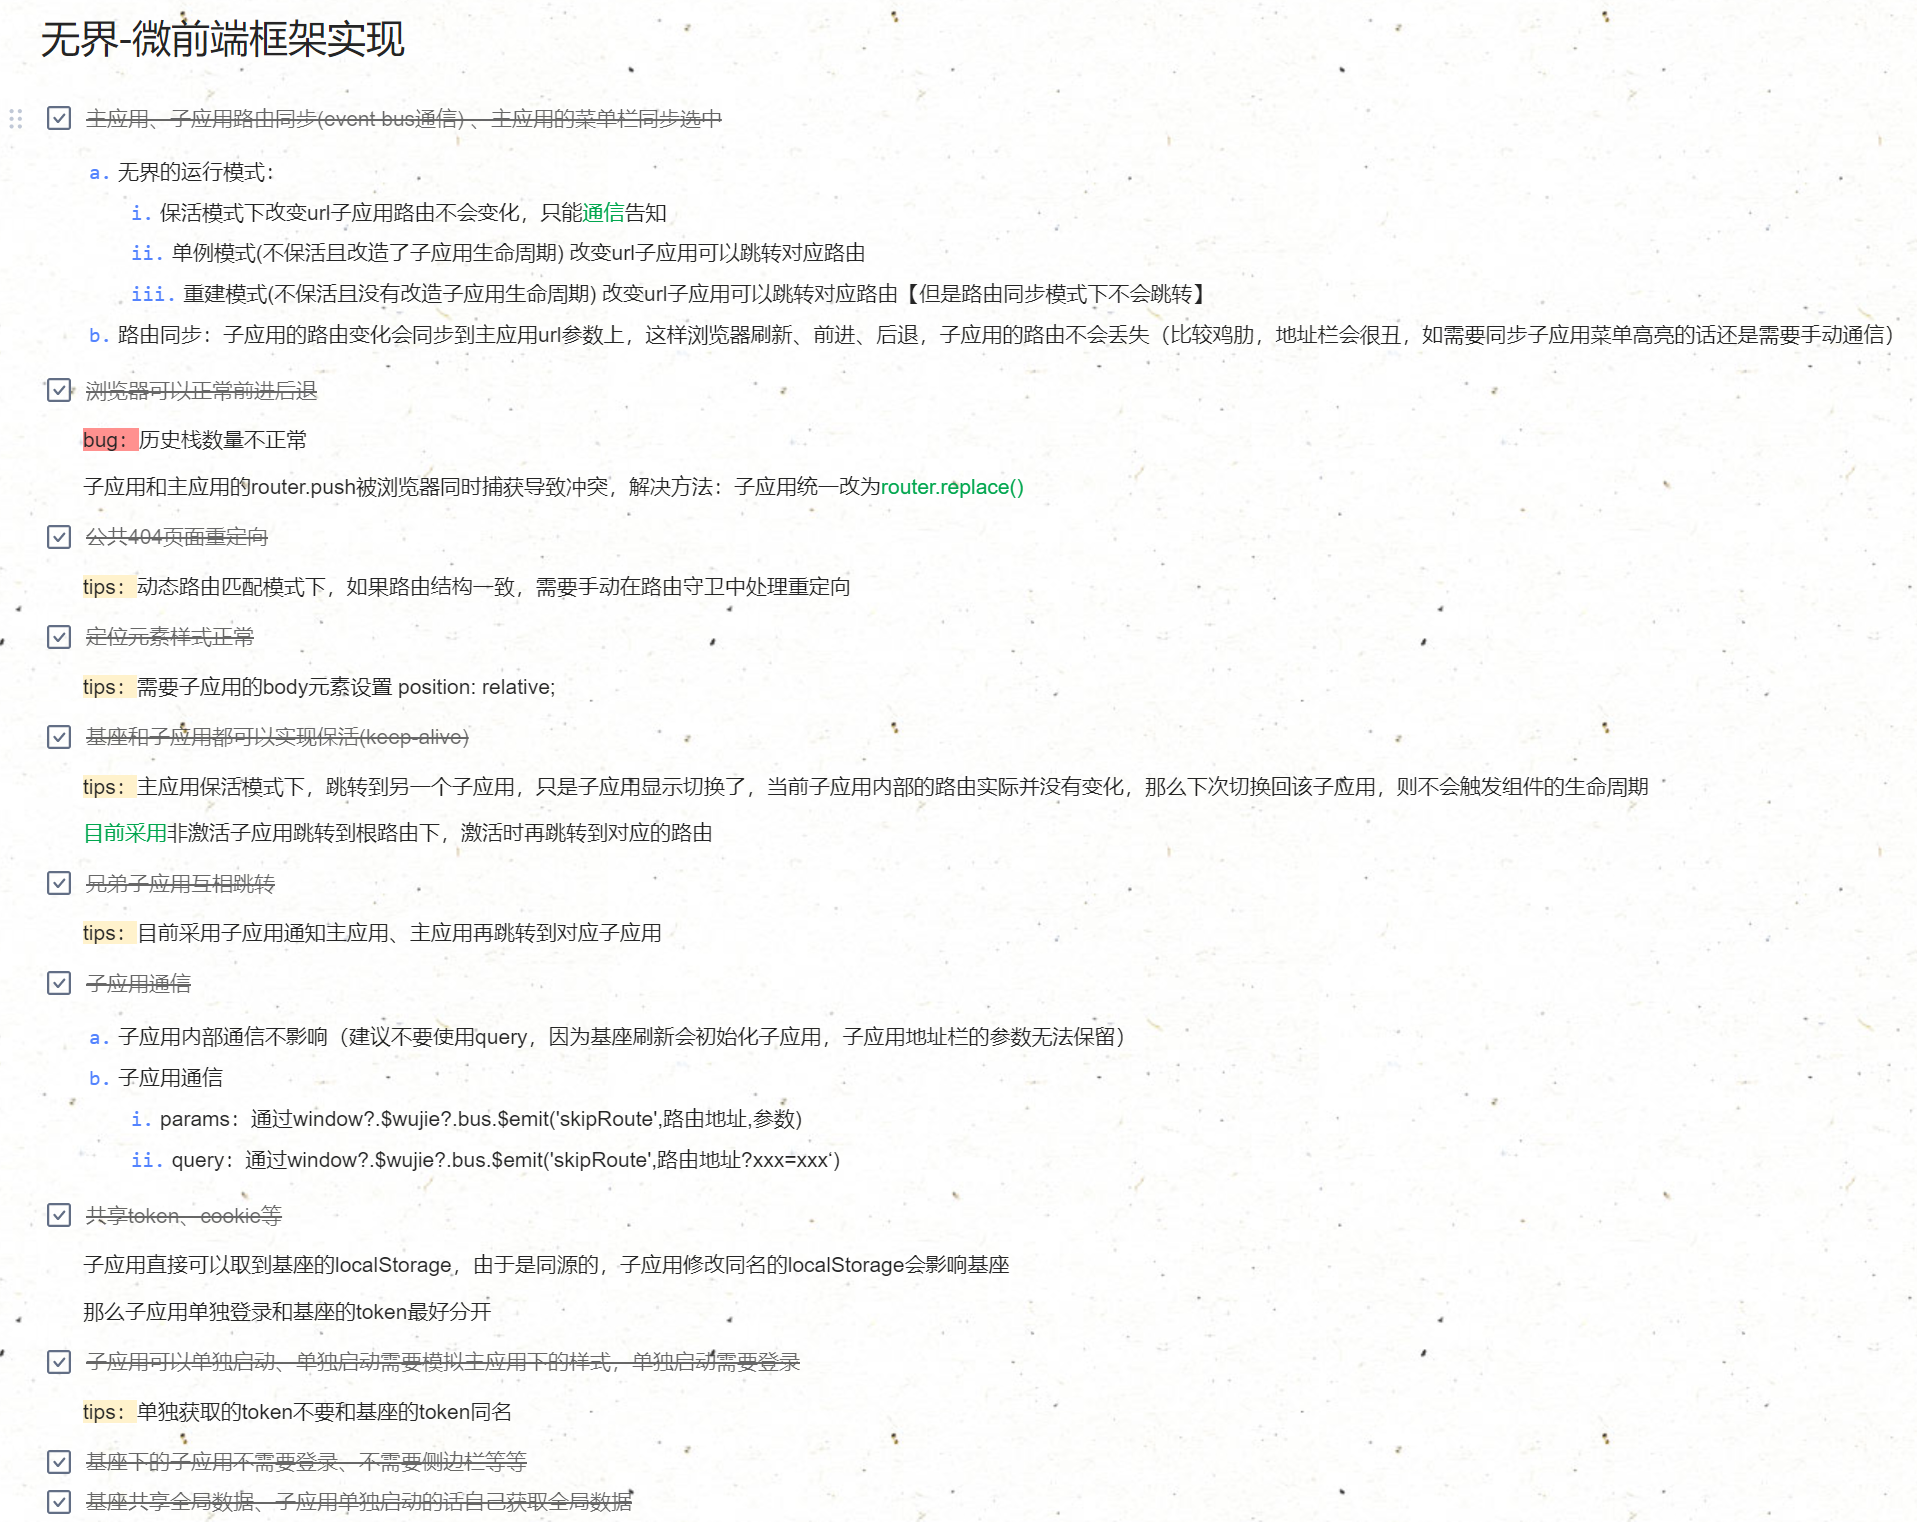
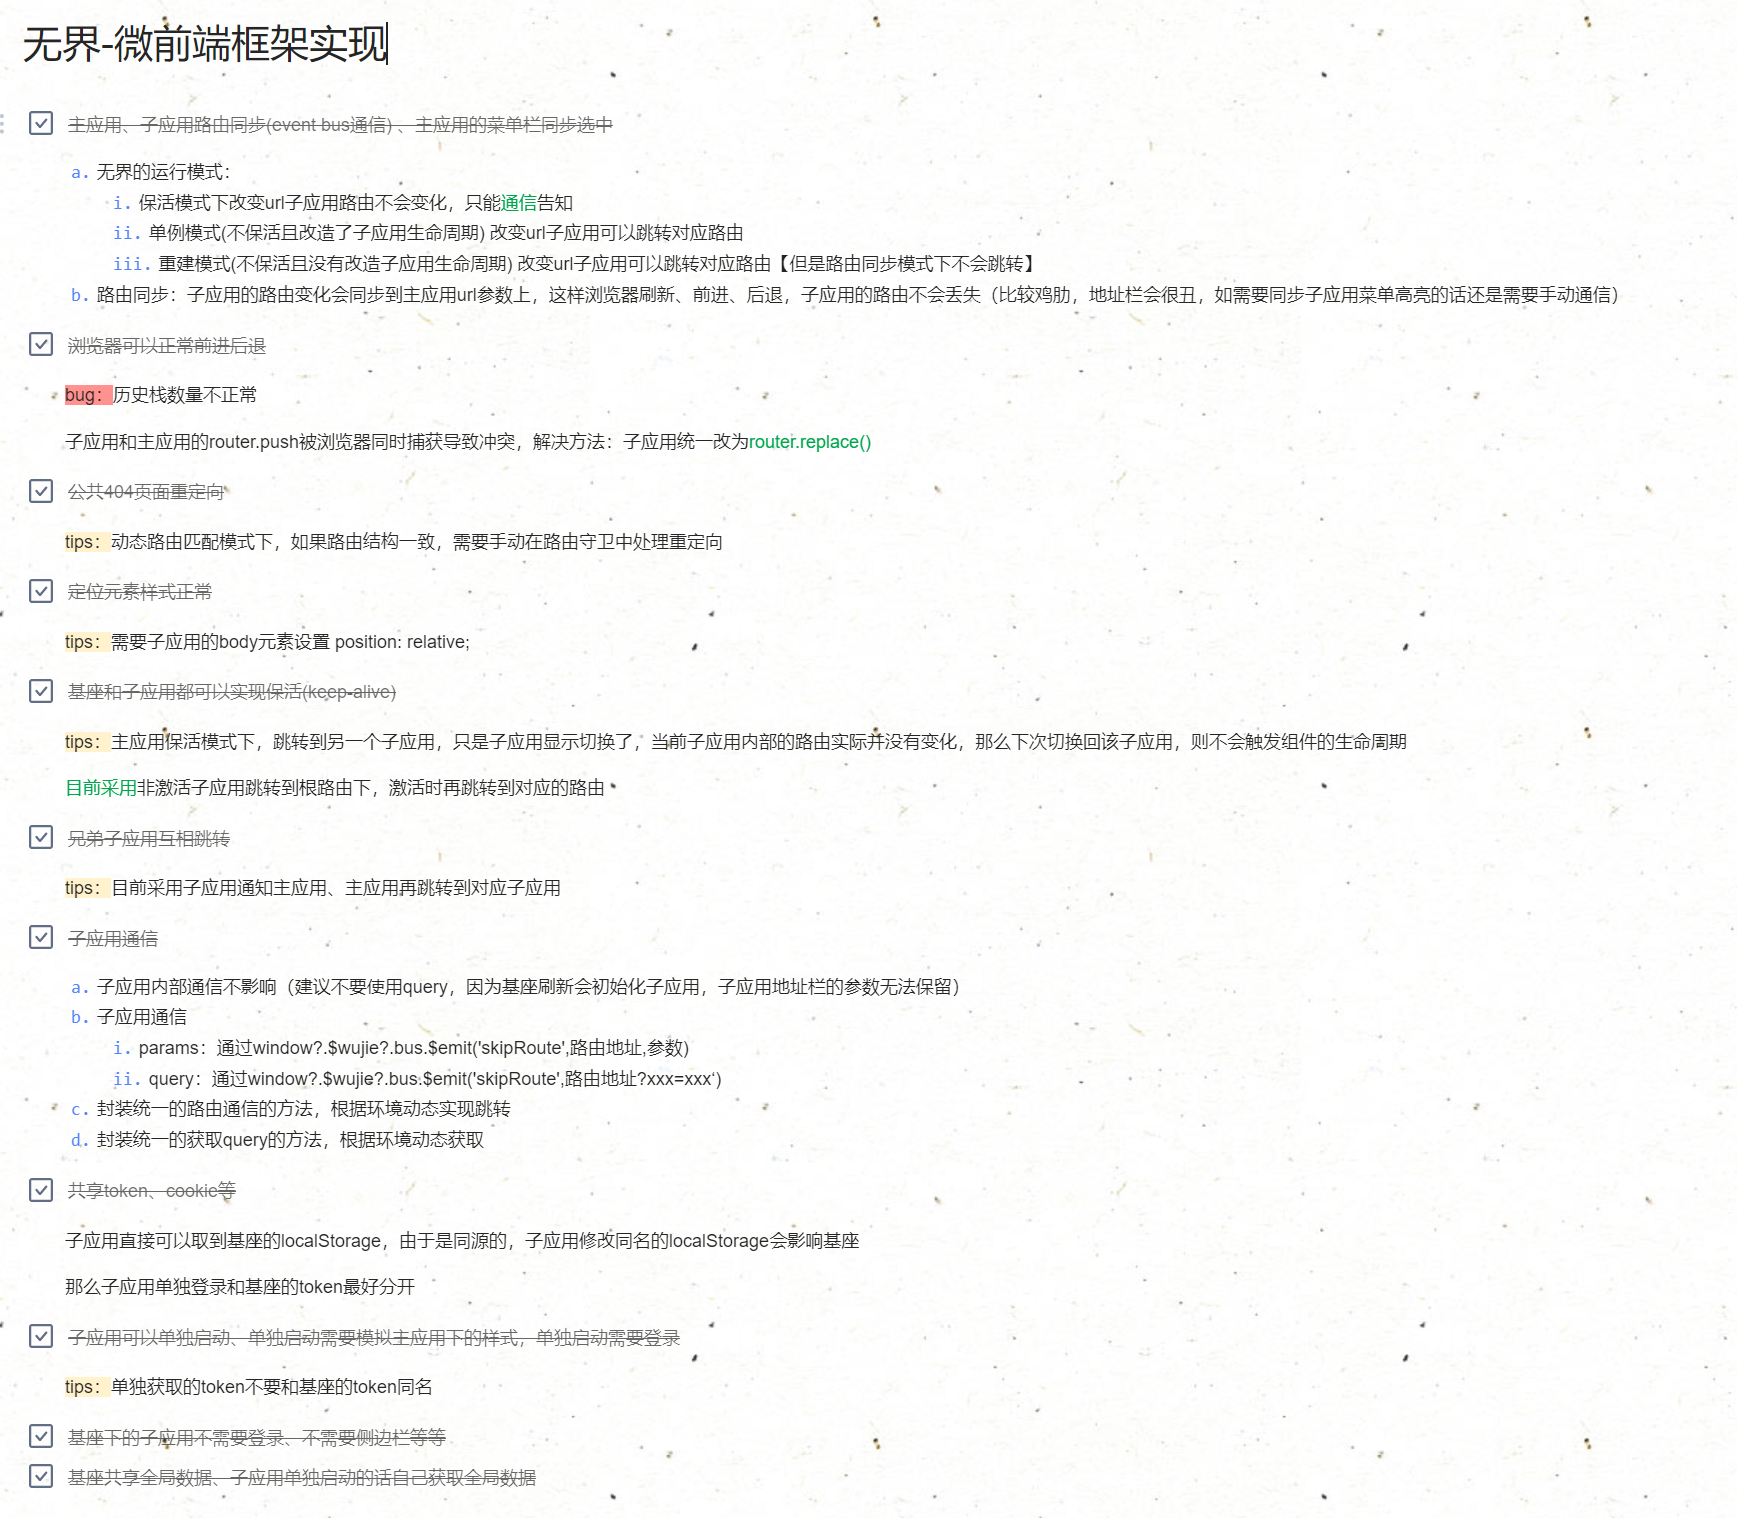
feat: 优化
1、主应用不再直接监听子路由变化，子路由变化路由通过公共方法区分环境动态实现
2、子应用不再直接通知主应用路由变化，子应用通过公共方法获取动态环境下的query参数
3、主应用props修正为响应式数据

Changed region(s): [[0.0, 0.0, 0.9948, 1.0]]

diff --git a/base/src/views/index.vue b/base/src/views/index.vue
@@ -6,12 +6,7 @@
 			height="100%"
 			:name="item.name"
 			:url="item.url"
-			:props="{
-				path,
-				params,
-				query,
-				userInfo,
-			}"
+			:props="props"
 			alive
 		></WujieVue>
 	</template>
@@ -31,43 +26,43 @@ import useStore from '@/store'
 const route = useRoute()
 const router = useRouter()
 const { bus } = WujieVue
-const {
-	store: { userInfo },
-} = useStore()
 
+type Props = {
+	path: string
+	params: any
+	query: any
+	userInfo: any
+}
+const props = ref<Props>({
+	path: '',
+	params: null, // 内存中的参数，刷新丢失
+	query: null, // 主应用地址栏的参数，刷新不丢失
+	userInfo: useStore().store.userInfo,
+})
 const currentSubName = ref<string>('')
-let path = ''
-let params: any = null // 内存中的参数，刷新丢失
-let query: any = null // 主应用地址栏的参数，刷新不丢失
 
 watch(
 	() => route,
 	(val: RouteLocationNormalizedLoaded) => {
-		// 当前激活的子应用
+		// 当前激活的子应用名称
 		currentSubName.value = val.params.subApplicationName as string
-		// 同步主应用路由 => 子应用
-		path = val.params.subApplicationPath as string
+		// 当前激活的子应用路由
+		props.value.path = val.params.subApplicationPath as string
 		// 记录主应用的query参数
-		query = val.query
+		props.value.query = val.query
+		// 同步主应用路由 => 子应用
 		bus.$emit('syncSubRoute', {
 			subName: currentSubName.value,
-			path: path,
+			path: props.value.path,
 		})
 	},
 	{ deep: true, immediate: true }
 )
 
-// 同步子应用路由 => 主应用
-bus.$on('syncMainRoute', (path: string) => {
-	if (route.path !== path) {
-		router.push(path)
-	}
-})
-
-// 子应用相互跳转
+// 子应用路由跳转
 bus.$on('skipRoute', (path: string, data?: any) => {
 	if (data) {
-		params = data
+		props.value.params = data
 	}
 	router.push(path)
 })

diff --git a/sales/src/App.vue b/sales/src/App.vue
@@ -8,17 +8,11 @@
 </template>
 
 <script setup lang="ts">
-import {
-	useRouter,
-	useRoute,
-	type RouteLocationNormalizedLoaded,
-} from 'vue-router'
-import { onMounted, watch, onBeforeUnmount } from 'vue'
+import { useRouter } from 'vue-router'
+import { onMounted, onBeforeUnmount } from 'vue'
+import { selfSubName } from '@/utils/tools'
 
 const router = useRouter()
-const route = useRoute()
-const selfSubName = 'sales'
-let isCurrentRouteChange = true
 
 onMounted(() => {
 	// 刷新时同步主应用路由(因为$emit和$on触发时机的问题，刷新时不能首先通知，否则需要改造子应用生命周期)
@@ -32,30 +26,13 @@ onMounted(() => {
 		({ subName, path }: { subName: string; path: string }) => {
 			// 子应用名称匹配时才跳转(因为保活子应用的话仍然可以响应bus事件)
 			if (subName === selfSubName) {
-				isCurrentRouteChange = true
 				router.replace(path)
 			} else {
-				isCurrentRouteChange = false
 				router.replace('/')
 			}
 		}
 	)
 })
-
-// 同步子应用路由 => 主应用
-watch(
-	() => route,
-	(val: RouteLocationNormalizedLoaded) => {
-		// 只有在当前子应用环境下变化路由才触发
-		if (isCurrentRouteChange) {
-			window?.$wujie?.bus.$emit(
-				'syncMainRoute',
-				`/${selfSubName}${val.path}`
-			)
-		}
-	},
-	{ deep: true }
-)
 
 onBeforeUnmount(() => {
 	window?.$wujie?.bus.$clear()

diff --git a/oa/src/App.vue b/oa/src/App.vue
@@ -8,17 +8,11 @@
 </template>
 
 <script setup lang="ts">
-import {
-	useRouter,
-	useRoute,
-	type RouteLocationNormalizedLoaded,
-} from 'vue-router'
-import { onMounted, watch, onBeforeUnmount } from 'vue'
+import { useRouter } from 'vue-router'
+import { onMounted, onBeforeUnmount } from 'vue'
+import { selfSubName } from '@/utils/tools'
 
 const router = useRouter()
-const route = useRoute()
-const selfSubName = 'oa'
-let isCurrentRouteChange = true
 
 onMounted(() => {
 	// 刷新时同步主应用路由(因为$emit和$on触发时机的问题，刷新时不能首先通知，否则需要改造子应用生命周期)
@@ -32,30 +26,13 @@ onMounted(() => {
 		({ subName, path }: { subName: string; path: string }) => {
 			// 子应用名称匹配时才跳转(因为保活子应用的话仍然可以响应bus事件)
 			if (subName === selfSubName) {
-				isCurrentRouteChange = true
 				router.replace(path)
 			} else {
-				isCurrentRouteChange = false
 				router.replace('/')
 			}
 		}
 	)
 })
-
-// 同步子应用路由 => 主应用
-watch(
-	() => route,
-	(val: RouteLocationNormalizedLoaded) => {
-		// 只有在当前子应用环境下变化路由才触发
-		if (isCurrentRouteChange) {
-			window?.$wujie?.bus.$emit(
-				'syncMainRoute',
-				`/${selfSubName}${val.path}`
-			)
-		}
-	},
-	{ deep: true }
-)
 
 onBeforeUnmount(() => {
 	window?.$wujie?.bus.$clear()

diff --git a/oa/src/views/approve/index.vue b/oa/src/views/approve/index.vue
@@ -54,21 +54,14 @@
 				</el-drawer>
 			</div>
 		</div>
-		<el-button type="primary" @click="skip()"
-			>跳转到流程页面 store.message='你好啊'</el-button
-		>
+		<el-button type="primary" @click="skip()">跳转到流程页面</el-button>
 	</div>
 </template>
 
 <script setup lang="ts">
-import { useRouter, useRoute } from 'vue-router'
-import { ref } from 'vue'
+import { ref, onMounted } from 'vue'
 import { ElMessage } from 'element-plus'
-import useStore from '@/store'
-
-const router = useRouter()
-const route = useRoute()
-const { setMessage } = useStore()
+import { routerChange, getQuery } from '@/utils/tools'
 
 const value = ref('')
 const dialogVisible = ref(false)
@@ -98,17 +91,18 @@ const options = [
 ]
 
 const skip = () => {
-	router.replace('/flow')
-	setMessage('你好啊')
+	routerChange('/flow')
 }
 
 const open = () => {
 	ElMessage.success('This is a message.')
 }
 
-console.log('审批页面-加载了')
-console.log(`内部的query`, route.query)
-console.log('基座的props', window.$wujie?.props)
+onMounted(async () => {
+	console.log('审批页面-加载了')
+	console.log(`query获取`, getQuery())
+	console.log('基座的props', window.$wujie?.props)
+})
 </script>
 
 <style scoped lang="scss">

diff --git a/oa/src/views/flow/index.vue b/oa/src/views/flow/index.vue
@@ -15,19 +15,14 @@
 		<el-button type="primary" @click="skip()"
 			>跳转到审批页面 id=222</el-button
 		>
-		来自审批页面的消息：{{ store.message }}
 	</div>
 </template>
 
 <script setup lang="ts">
-import { useRouter } from 'vue-router'
-import useStore from '@/store'
-const { store } = useStore()
-
-const router = useRouter()
+import { routerChange } from '@/utils/tools'
 
 const skip = () => {
-	router.replace('/approve?id=222')
+	routerChange('/approve?id=222')
 }
 
 console.log('流程页面-加载了')

diff --git a/sales/src/utils/tools.ts b/sales/src/utils/tools.ts
@@ -1,0 +1,21 @@
+import router from '@/router'
+
+export const selfSubName = 'sales'
+
+// 公共路由跳转方法
+export const routerChange = (path: string) => {
+  if (window?.$wujie) {
+    window?.$wujie?.bus.$emit('skipRoute', `/${selfSubName}${path}`)
+  } else {
+    router.replace(path)
+  }
+}
+
+// 公共路由参数获取
+export const getQuery = () => {
+  if (window?.$wujie) {
+    return window.$wujie?.props.query
+  } else {
+    return router.currentRoute.value.query
+  }
+}

diff --git a/oa/src/utils/tools.ts b/oa/src/utils/tools.ts
@@ -1,0 +1,21 @@
+import router from '@/router'
+
+export const selfSubName = 'oa'
+
+// 公共路由跳转方法
+export const routerChange = (path: string) => {
+  if (window?.$wujie) {
+    window?.$wujie?.bus.$emit('skipRoute', `/${selfSubName}${path}`)
+  } else {
+    router.replace(path)
+  }
+}
+
+// 公共路由参数获取
+export const getQuery = () => {
+  if (window?.$wujie) {
+    return window.$wujie?.props.query
+  } else {
+    return router.currentRoute.value.query
+  }
+}

diff --git a/oa/src/views/common/login.vue b/oa/src/views/common/login.vue
@@ -69,7 +69,7 @@ const submitForm = async (formEl: FormInstance | undefined) => {
 	if (!formEl) return
 	await formEl.validate((valid) => {
 		if (valid) {
-			localStorage.setItem('subToken', '123')
+			localStorage.setItem('subToken', 'sub')
 			router.push('/')
 		}
 	})

diff --git a/sales/src/views/common/login.vue b/sales/src/views/common/login.vue
@@ -69,7 +69,7 @@ const submitForm = async (formEl: FormInstance | undefined) => {
 	if (!formEl) return
 	await formEl.validate((valid) => {
 		if (valid) {
-			localStorage.setItem('subToken', '123')
+			localStorage.setItem('subToken', 'sub')
 			router.push('/')
 		}
 	})

diff --git a/base/src/pages/login/index.vue b/base/src/pages/login/index.vue
@@ -69,7 +69,7 @@ const submitForm = async (formEl: FormInstance | undefined) => {
 	if (!formEl) return
 	await formEl.validate((valid) => {
 		if (valid) {
-			localStorage.setItem('token', '123')
+			localStorage.setItem('token', 'main')
 			router.push('/')
 		}
 	})
